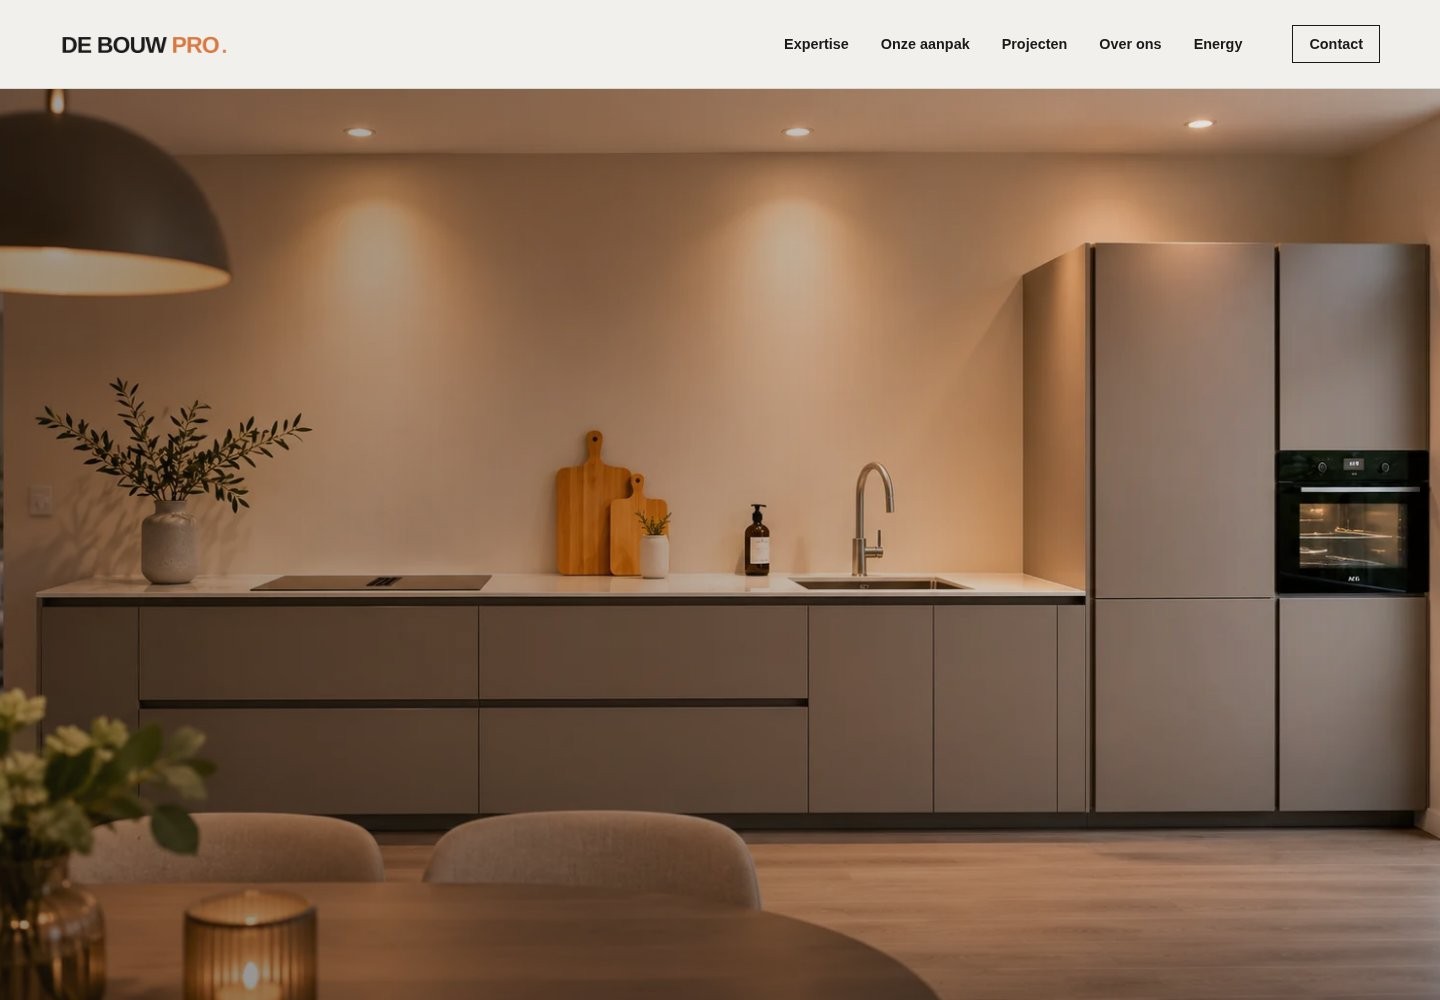
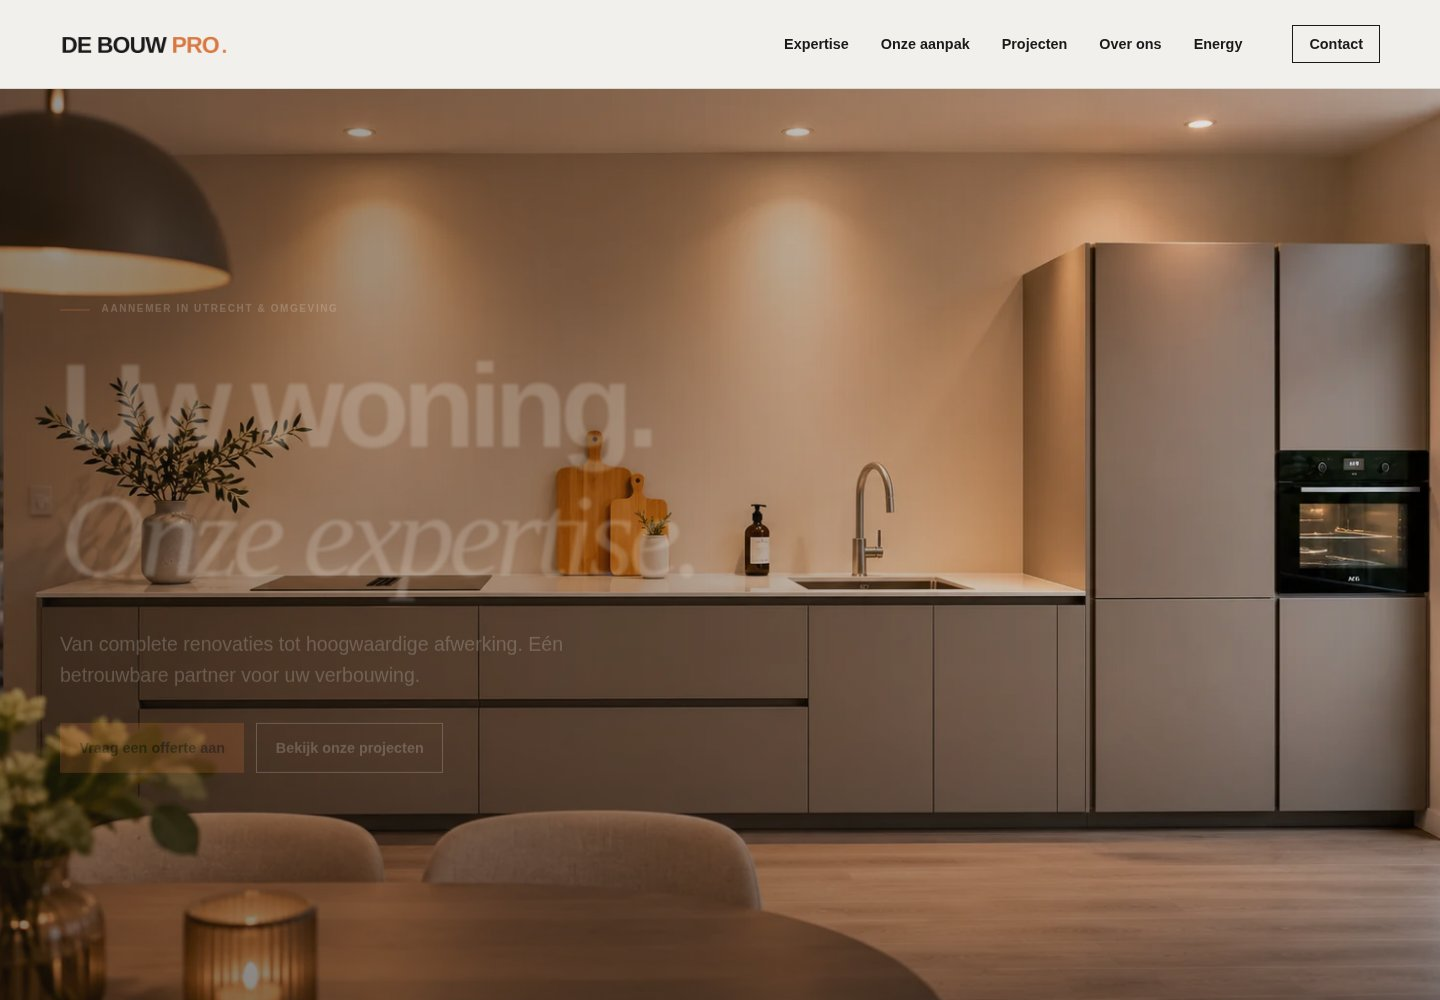
Speed up hero shade and overlap text entrance

diff --git a/assets/concept-v3.css b/assets/concept-v3.css
@@ -556,13 +556,16 @@
     opacity: 0;
   }
   .home-hero.hero-warm.hero-sequence-playing::after {
-    animation: hero-shade-arrive 950ms 180ms ease-out both;
+    animation: hero-shade-arrive 600ms 80ms ease-out both;
   }
   .home-hero.hero-warm.hero-sequence-playing .hero-content {
-    animation: hero-copy-arrive 750ms 700ms cubic-bezier(0.2, 0.7, 0.25, 1) both;
+    animation: hero-copy-arrive 650ms 260ms cubic-bezier(0.2, 0.7, 0.25, 1) both;
+  }
+  .home-hero.hero-warm.hero-sequence-playing h1 {
+    animation: hero-title-focus 650ms 260ms ease-out both;
   }
   .home-hero.hero-warm.hero-sequence-playing .hero-credit {
-    animation: hero-credit-arrive 550ms 900ms ease-out both;
+    animation: hero-credit-arrive 450ms 450ms ease-out both;
   }
 }
 @keyframes hero-shade-arrive {
@@ -602,4 +605,13 @@
 }
 .home-hero.hero-sequence-pending .hero-content {
   pointer-events: none;
+}
+
+@keyframes hero-title-focus {
+  from {
+    filter: blur(2px);
+  }
+  to {
+    filter: blur(0);
+  }
 }

diff --git a/assets/concept-v3.js b/assets/concept-v3.js
@@ -42,7 +42,7 @@ if (hero) {
       requestAnimationFrame(() => {
         if (finished) return;
         hero.classList.add("hero-sequence-playing");
-        safety = setTimeout(finish, 1800);
+        safety = setTimeout(finish, 1200);
       });
     }, finish);
     hero.addEventListener("animationend", (event) => {

diff --git a/docs/hero-graafwerk/README.md b/docs/hero-graafwerk/README.md
@@ -1,5 +1,7 @@
 # Hero entrance and Graafwerk — Playground
 
+**26 November refinement:** the owner requested a quicker, overlapping entrance. Shade now starts after 80ms and lasts 600ms; copy starts after 260ms and lasts 650ms, with a subtle 2px-to-sharp title focus. The whole sequence finishes around 910ms after image readiness rather than 1450ms. Reduced motion, no-JS and keyboard alternatives are retained. Original timing notes below describe the first iteration.
+
 Owner preference: retain the warm Test-derived kitchen hero and icon-based service cards by default. The photo comparison remains available without persistence. No Test/Main/production, DNS, legal-master or email-configuration changes.
 
 ## Hero
